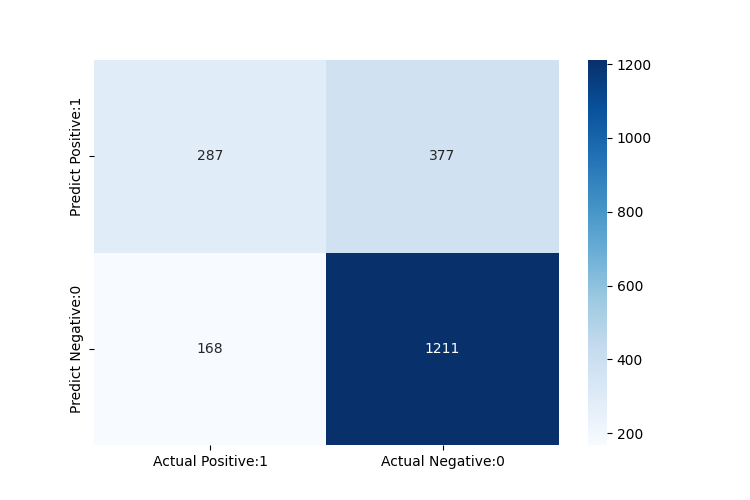
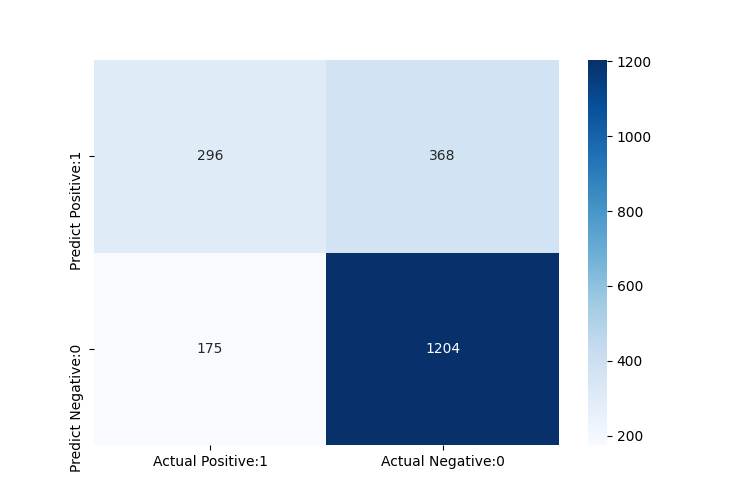
Updated with new parameter values to reduce time

diff --git a/PROJECT CODE/models.py b/PROJECT CODE/models.py
@@ -72,14 +72,14 @@ def cross_validation(model, X, y, cv=5):
         cross_vals.append(val_acc)
     return cross_vals
 
-def grid_search(name,group, X, y, cv=5, N=5):
+def grid_search(name,group, X, y, cv=4, N=5):
     
     svm_hyper = {'C': np.logspace(-1, 1, N), 'gamma': np.logspace(-2, 1, N)}
-    rf_hyper = {'n_estimators': np.arange(10, 100), 'max_depth': np.arange(1, 11)}
+    rf_hyper = {'n_estimators': np.arange(10, 50), 'max_depth': np.arange(1, 11)}
     #logist_hyper = {'lr' : [0.001, 0.01, 0.1], 'regularization': ['none',]}
     #logist_hyper = {'lamda' : np.logspace(-4, -1, 5), 'add_bias_term': [True]}
-    logist_hyper = {'lamda' : np.logspace(-4, -1, 5), 'lr': np.arange(1,5)*0.1}
-    knn_hyper = {'n_neighbors' : np.arange(1, 100), 'weights': ['uniform', 'distance']}
+    logist_hyper = {'lamda' : np.logspace(-4, -3, 3), 'lr': np.arange(1,5)*0.1}
+    knn_hyper = {'n_neighbors' : np.arange(1, 50), 'weights': ['uniform', 'distance']}
 
     #m2m = {'SVM': (SVM, svm_hyper), 'RF': (RandomForest, rf_hyper), 'Logistic': (LogisticRegression, logist_hyper)}
     m2m = {'SVM': (SVM, svm_hyper), 'RF': (RandomForest, rf_hyper),  'KNN': (KNeighborsClassifier, knn_hyper),'Logistic': (LogisticRegression, logist_hyper)}
@@ -99,7 +99,7 @@ def grid_search(name,group, X, y, cv=5, N=5):
             hyper[bkey] = beta
             model = Model(**hyper)
             avg_score = np.mean(cross_validation(model, X, y, cv=cv))
-            #print(avg_score,hyper)
+            print(avg_score,hyper)
             scores.append((avg_score, hyper))
             twoDscores[i,j] = avg_score
     

diff --git a/PROJECT CODE/main.py b/PROJECT CODE/main.py
@@ -53,7 +53,7 @@ def command_parse():
     
     argparser.add_argument("--cv",
                             help = "number of folds in cv",
-                            default = 5,
+                            default = 4,
                             type = int)
 
     argparser.add_argument("--N",
